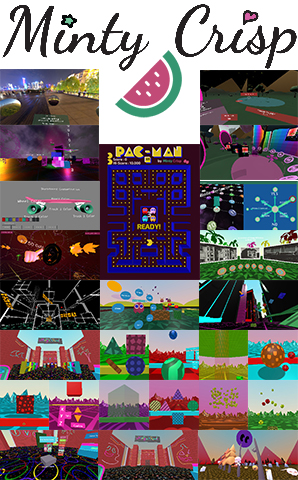
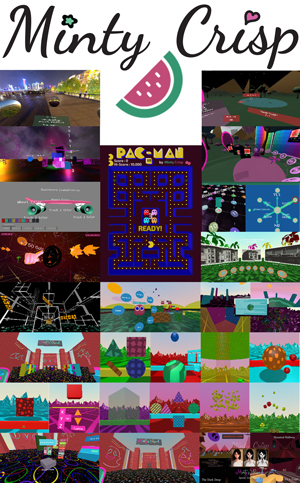
Portfolio updates and previews added
Portfolio updates and previews added

diff --git a/index.html b/index.html
@@ -50,7 +50,7 @@
 <!-- Header -->
 <header>
 <hgroup>
-	<h1>Web XR Developer &amp; Game Maker</h1>
+	<h1>Web XR A-Frame Developer</h1>
 	<h2>Technology is how we hareness actual magic and I aim to make some cool spells! ^_^</h2>
 </hgroup>
 	<p>The power of Web XR is amazing! I love using
@@ -84,16 +84,15 @@
 	<li>Glitch : <a href="https://glitch.com/@mintycrisp">@MintyCrisp</a></li>
 	<li>Dev.to : <a href="https://dev.to/mintycrisp">MintyCrisp</a></li>
 	<li>Ko-fi : <a href="https://ko-fi.com/mintycrisp">MintyCrisp</a></li>
+	<script type='text/javascript' src='https://storage.ko-fi.com/cdn/widget/Widget_2.js'></script><script type='text/javascript'>kofiwidget2.init('Support Me on Ko-fi', '#29abe0', 'I2I3D56Z4');kofiwidget2.draw();</script>
 	</ul>
 </aside>
 </section>
 
-<!-- Latest -->
+<!-- Highlight -->
 <hr>
-<h2>Latest</h2>
-
-<!-- Recent -->
 <section>
+
 <!-- XRcade -->
 <aside id="xrcade">
 	<h3>Minty's XRcade</h3><sup>NEW UPDATE!</sup>
@@ -103,6 +102,8 @@
 	<li>NEW : Spooky Zone w/ 3 Killer Experiences!</li>
 	<li><a href="https://github.com/Minty-Crisp/XRcade">View Repo</a></li>
 	</ul>
+	<img id="xrcade-photo" src="./assets/img/previews/projects/mintycrisp-xrcade-preview1.jpg">
+	<img id="gallery-photo" src="./assets/img/previews/projects/mintycrisp_xrcade_spooky-update.jpg">
 	<a href="https://mintyxr.com"><button id="launchXRcade">Launch Mintys XRcade</button></a>
 </aside>
 
@@ -115,29 +116,51 @@
 	<li><a href="https://auxlibrary.com/physics.html">v0.3 Physics Demo Preview</a></li>
 	<li><a href="https://github.com/Minty-Crisp/AUXL/wiki">AUXL Wiki (v0.2)</a></li>
 	</ul>
+	<img id="auxl-photo" src="./assets/img/previews/projects/mintycrisp-auxl-preview1.jpg">
+	<img id="auxl-photo2" src="./assets/img/previews/projects/mintycrisp-auxl-physics_preview-base.jpg">
 	<a href="https://github.com/Minty-Crisp/AUXL"><button id="launchAuxl">View v0.3 Repo</button></a>
+</aside>
+
+</section>
+
+<!-- Latest -->
+<hr>
+<h2>More Projects</h2>
+<section>
+
+<!-- Game of Life -->
+<aside id="gol">
+	<h3>Conway's Game of Life in A-Frame</h3>
+	<h5>*Glitch App of the Week*</h5>
+	<ul>
+	<li>View : <a href="https://mintycrisp-a-frame-game-of-life.glitch.me"> Scene</a> - <a href="https://glitch.com/~mintycrisp-a-frame-game-of-life">Code</a></li>
+	</ul>
+	<img id="gol-photo" src="./assets/img/previews/projects/mintycrisp-gol-thumbnail.jpg">
+	<a href="https://mintycrisp-a-frame-game-of-life.glitch.me"><button id="playGol">Launch</button></a>
+</aside>
+
+<!-- Glitch -->
+<aside id="glitch">
+	<h3>A-Frame Projects on Glitch</h3>
+	<ul>
+	<li>A-Frame Mascot Prototyping : <a href="https://mintycrisp-aframe-mascot-a-bot.glitch.me"> View</a> - <a href="https://glitch.com/~mintycrisp-aframe-mascot-a-bot">Project</a></li>
+	<li>Player Rig Reference : <a href="https://mintycrisp-a-frame-aplayerref-example.glitch.me"> View</a> - <a href="https://glitch.com/~mintycrisp-a-frame-aplayerref-example">Project</a></li>
+	<li>Checkpoint Override : <a href="https://stitch-terrific-block.glitch.me"> View</a> - <a href="https://glitch.com/~mintycrisp-a-frame-movingaround-tweak">Project</a></li>
+	<!-- <li>NAME : <a href=""> View</a> - <a href="">Project</a></li> -->
+	</ul>
 </aside>
 
 <!-- Banter BounceForce -->
 <aside id="bounceForce">
 	<h3>BounceForce VR Target Battle Arena</h3>
-	<h4>*Grand Prize Winner*</h4>
+	<h5>*Grand Prize Winner*</h5>
 	<p>BounceForce is built with AUXL support specifically for Sidequest's Banter. It was created for a hackathon competition sponsored by Sidequest to test and create content for their Banter VR verse application.</p>
 	<ul>
 	<li><a href="https://github.com/Minty-Crisp/banter-bounceforce">View Repo &amp; Game Info</a></li>
 	<li><a href="https://www.oculus.com/experiences/quest/5404906916283287/">Download Banter for Quest</a></li>
 	</ul>
+	<img id="banter-photo" src="./assets/img/previews/projects/mintyCrisp-banter-bounceForce-grand_prize_winner.jpg">
 	<a href="banter://minty-crisp.github.io/banter-bounceforce/"><button id="launchBounceforce">Launch</button></a><sup>*Requires Banter App to Play</sup>
-</aside>
-
-<!-- XR Art Gallery -->
-<aside id="artGallery">
-	<h3>Art Institute of Chicago XR Gallery</h3>
-	<p>Browse through an assortment of images provided by the Art Institute of Chicago in an immersive environment surrounded by multiple Frames for easy viewing.</p>
-	<ul>
-	<li><a href="https://github.com/Minty-Crisp/aic-xr-gallery">View Repo</a></li>
-	</ul>
-	<a href="https://minty-crisp.github.io/aic-xr-gallery/"><button id="launchArtGallery">Launch</button></a>
 </aside>
 
 <!-- Pac-Man XR -->
@@ -147,29 +170,22 @@
 	<ul>
 	<li><a href="https://github.com/Minty-Crisp/Pac-Man-XR_A-Frame">View Repo</a></li>
 	</ul>
+	<img id="pacman-photo" src="./assets/img/previews/projects/mintycrisp-aframe_pac-man-xr.jpg">
 	<a href="https://minty-crisp.github.io/Pac-Man-XR_A-Frame/"><button id="launchPacmanXR">Launch</button></a>
 </aside>
-</section>
 
-<!-- More -->
-<section>
-<!-- Stores -->
-<aside id="stores">
-	<h3>Stores<sup>Coming Soon</sup></h3>
-	<p>Physical &amp; Digital online shops ^-^</p>
+<!-- XR Art Gallery -->
+<aside id="artGallery">
+	<h3>Art Institute of Chicago XR Gallery</h3>
+	<p>Browse through an assortment of images provided by the Art Institute of Chicago in an immersive environment surrounded by multiple Frames for easy viewing.</p>
 	<ul>
-	<li>Itch.io : <a href="https://mintycrisp.itch.io/">MintyCrisp</a></li>
-	<li>Merch : <a href="">Coming Soon</a></li>
+	<li><a href="https://github.com/Minty-Crisp/aic-xr-gallery">View Repo</a></li>
 	</ul>
+	<img id="gallery-photo" src="./assets/img/previews/projects/mintycrisp-aframe-aic-gallery.jpg">
+	<a href="https://minty-crisp.github.io/aic-xr-gallery/"><button id="launchArtGallery">Launch</button></a>
 </aside>
-</section>
-
-<!-- Code -->
-<hr>
-<h2>Open Source Code</h2>
 
 <!-- Code Repos -->
-<section>
 <aside id="repos">
 	<h3>Github Repositories</h3>
 	<p>Check out some of my open source work and various contributions.</p>
@@ -183,10 +199,8 @@
 	<li>Image Fallback JS : <a href="https://github.com/Minty-Crisp/Image-Fallback.js">Repo</a></li>
 	</ul>
 </aside>
-</section>
 
 <!-- Prototypes -->
-<section>
 <aside id="learning">
 	<h3>Learning A-Frame Scenes</h3>
 	<ul>
@@ -199,7 +213,19 @@
 	<li>VR Orb Sky Changer : <a href="./scenes/vr-orb-sky-changer.html">View Scene</a> - <a href="https://dev.to/mintycrisp/a-frame-web-xr-orb-sky-changer-scene-and-overview-17f5">Article</a></li>
 	</ul>
 </aside>
+
 </section>
+
+<!-- Stores
+<aside id="stores">
+	<h3>Stores<sup>Coming Soon</sup></h3>
+	<p>Physical &amp; Digital online shops ^-^</p>
+	<ul>
+	<li>Itch.io : <a href="https://mintycrisp.itch.io/">MintyCrisp</a></li>
+	<li>Merch : <a href="">Coming Soon</a></li>
+	</ul>
+</aside>
+ -->
 
 <!-- About Me -->
 <hr>
@@ -207,7 +233,7 @@
 
 <!-- Photo -->
 <section>
-	<img id="photo" src="./assets/img/4up.jpg">
+	<img id="photo" src="./assets/img/self-sq.jpg">
 </section>
 
 <!-- Skills & Experience -->
@@ -226,6 +252,7 @@
 	<summary>Frameworks</summary>
 	<ul>
 	<li>A-Frame</li>
+	<li>AUXL</li>
 	<li>Wordpress</li>
 	<li>RenPy</li>
 	</ul>
